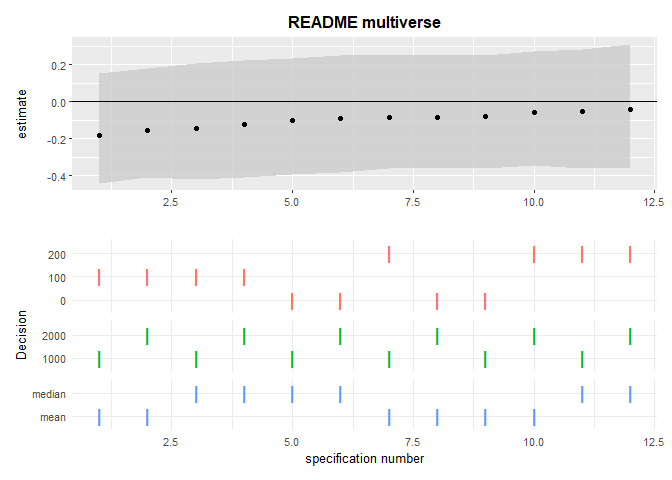
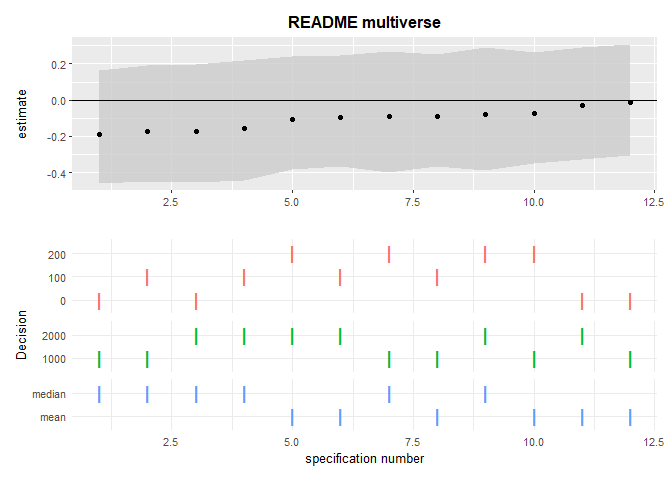
bug fixes in multiverse

diff --git a/README.md b/README.md
@@ -16,26 +16,27 @@ the main outcome measure, for instance the Stroop score or dot-probe
 attention bias index (average RT in incongruent trials minus average RT
 in congruent trials).
 
-As it’s name suggests, the methods are built around split half
-reliability estimation. To increase the robustness of these estimates,
-the package implements a permutation approach that takes a large number
-of random (without replacement) split halves of the data. For each
-permutation the correlation between halves is calculated, with the
-Spearman-Brown correction applied (). This process generates a
+The methods in *splithalf* are built around split half reliability
+estimation. To increase the robustness of these estimates, the package
+implements a permutation approach that takes a large number of random
+(without replacement) split halves of the data. For each permutation the
+correlation between halves is calculated, with the Spearman-Brown
+correction applied (Spearman 1904). This process generates a
 distribution of reliability estimates from which we can extract summary
 statistics (e.g. average and 95% HDI).
 
 ### Why should I estimate the reliabilty of my task measurement?
 
-A full rationale for estimating and reporting the reliability of task
-measurements is outlined in Parsons, Kruijt, and Fox (2019). In short,
 while many cognitive tasks yield robust effects (e.g. everybody shows a
-Stroop effect) they may not yield reliable individual differences. As
-these measures are used in questions of individual differences
-researchers need to have some psychometric information for the outcome
-measures.
-
-## Installation
+Stroop effect) they may not yield reliable individual differences
+(Hedge, Powell, and Sumner 2018). As these measures are used in
+questions of individual differences researchers need to have some
+psychometric information for the outcome measures. Recently, it was
+proposed that psychological science should set a standard expectation
+for the reporting of reliability information for cognitive and
+behavioural measures (2019). *splithalf* was developed to support this
+proposition by providing a tool to easily extract internal consistency
+reliability estimates from behavioural measures. \#\# Installation
 
 The latest release version (`0.7.1` unofficial version name: Kitten
 Mittens) can be installed from CRAN:
@@ -259,16 +260,16 @@ sim_data %>%
 # Groups:   participant_number, block_name [120]
    participant_number block_name congruent incongruent    bias
                 <int> <fct>          <dbl>       <dbl>   <dbl>
- 1                  1 A               512.        462.   49.4 
- 2                  1 B               477.        484.   -6.22
- 3                  2 A               502.        493.    8.83
- 4                  2 B               425.        525. -100.  
- 5                  3 A               501.        524.  -22.1 
- 6                  3 B               526.        551.  -25.7 
- 7                  4 A               498.        420.   78.2 
- 8                  4 B               466.        534.  -67.6 
- 9                  5 A               491.        522.  -31.4 
-10                  5 B               409.        542. -133.  
+ 1                  1 A               538.        476.   61.7 
+ 2                  1 B               482.        523.  -41.7 
+ 3                  2 A               535.        525.   10.3 
+ 4                  2 B               515.        524.   -9.33
+ 5                  3 A               497.        515.  -18.0 
+ 6                  3 B               449.        629. -180.  
+ 7                  4 A               489.        504.  -15.1 
+ 8                  4 B               468.        541.  -73.7 
+ 9                  5 A               520.        559.  -38.7 
+10                  5 B               464.        516.  -52.4 
 # ... with 110 more rows
 ```
 
@@ -295,8 +296,8 @@ difference <- splithalf(data = sim_data,
 
 ``` 
   condition  n splithalf 95_low 95_high spearmanbrown SB_low SB_high
-1         A 60     -0.05  -0.22    0.13         -0.09  -0.37    0.24
-2         B 60      0.08  -0.09    0.26          0.14  -0.17    0.42
+1         A 60      0.06  -0.12    0.25          0.10  -0.21    0.39
+2         B 60      0.05  -0.12    0.24          0.09  -0.22    0.39
 ```
 
 Specifying `plot = TRUE` will also allow you to plot the distributions
@@ -335,7 +336,7 @@ formula is not useful in this case.
 > We estimated the internal consitency of bias A and B using a
 > permutation-based splithalf approach (Parsons 2020a) with 5000 random
 > splits. The (Spearman-Brown corrected) splithalf internal consistency
-> of bias A was were *r*<sub>SB</sub> = -0.09, 95%CI \[-0.37,0.24\].
+> of bias A was were *r*<sub>SB</sub> = 0.1, 95%CI \[-0.21,0.39\].
 > 
 > — Parsons, 2020
 
@@ -365,8 +366,8 @@ var.trialnum will soon be depreciated
 
 ``` 
   condition  n splithalf 95_low 95_high spearmanbrown SB_low SB_high
-1         A 60     -0.02  -0.19    0.18         -0.04  -0.32    0.30
-2         B 60      0.06  -0.12    0.24          0.10  -0.21    0.39
+1         A 60     -0.06  -0.23    0.13         -0.11  -0.38    0.23
+2         B 60      0.00  -0.17    0.19          0.01  -0.28    0.32
 ```
 
 ### Difference-of-difference scores
@@ -417,7 +418,7 @@ Warning in splithalf(data = sim_data, outcome = "RT", score =
 
 ``` 
      condition  n splithalf 95_low 95_high spearmanbrown SB_low SB_high
-1 change score 60      0.09  -0.08    0.28          0.16  -0.15    0.44
+1 change score 60      0.15  -0.02    0.33          0.25  -0.05    0.49
 ```
 
 ## Multiverse analysis extension
@@ -518,6 +519,13 @@ Currently, I have the following on my immediate to do list:
       - potentially customisable methods, e.g. where the outcome is
         scored in formats similar to A - B / A + B
 
+## Comparison to other software
+
+*splithalf* is the only package to implement all of these tools, in
+particular reliability multiverse analyses. Some other `R` packages
+offer a bootstrapped approach to split-half reliability *multicon*
+(Sherman 2015), *psych* (Revelle 2019), and *splithalfr* (Pronk 2020)
+
 ## References
 
 <div id="refs" class="references">
@@ -539,6 +547,15 @@ R and C++ Integration*. <https://CRAN.R-project.org/package=Rcpp>.
 
 </div>
 
+<div id="ref-hedge_reliability_2018">
+
+Hedge, Craig, Georgina Powell, and Petroc Sumner. 2018. “The Reliability
+Paradox: Why Robust Cognitive Tasks Do Not Produce Reliable Individual
+Differences.” *Behavior Research Methods* 50 (3): 1166–86.
+<https://doi.org/10.3758/s13428-017-0935-1>.
+
+</div>
+
 <div id="ref-R-splithalf">
 
 Parsons, Sam. 2020a. *Splithalf: Robust Estimates of Split Half
@@ -550,8 +567,7 @@ Reliability.* <https://doi.org/10.6084/m9.figshare.11956746.v4>.
 
 ———. 2020b. “Exploring Reliability Heterogeneity with Multiverse
 Analyses: Data Processing Decisions Unpredictably Influence Measurement
-Reliability.” Preprint. PsyArXiv.
-<https://doi.org/10.31234/osf.io/y6tcz>.
+Reliability.” Preprint, June. <https://doi.org/10.31234/osf.io/y6tcz>.
 
 </div>
 
@@ -569,6 +585,36 @@ Psychological Science.
 
 Pedersen, Thomas Lin. 2019. *Patchwork: The Composer of Plots*.
 <https://CRAN.R-project.org/package=patchwork>.
+
+</div>
+
+<div id="ref-R-splithalfr">
+
+Pronk, Thomas. 2020. *Splithalfr: Extensible Bootstrapped Split-Half
+Reliabilities*. <https://CRAN.R-project.org/package=splithalfr>.
+
+</div>
+
+<div id="ref-R-psych">
+
+Revelle, William. 2019. *Psych: Procedures for Psychological,
+Psychometric, and Personality Research*. Evanston, Illinois:
+Northwestern University. <https://CRAN.R-project.org/package=psych>.
+
+</div>
+
+<div id="ref-R-multicon">
+
+Sherman, Ryne A. 2015. *Multicon: Multivariate Constructs*.
+<https://CRAN.R-project.org/package=multicon>.
+
+</div>
+
+<div id="ref-spearman_proof_1904">
+
+Spearman, C. 1904. “The Proof and Measurement of Association Between Two
+Things.” *The American Journal of Psychology* 15 (1): 72.
+<https://doi.org/10.2307/1412159>.
 
 </div>
 

diff --git a/paper.md b/paper.md
@@ -1,0 +1,52 @@
+---
+# Example from https://joss.readthedocs.io/en/latest/submitting.html
+title: 'splithalf: robust estimates of split half reliability'
+tags:
+- reliability
+- cognitive tasks
+- multiverse
+- split half methods
+- R
+authors:
+  - name: Sam Parsons
+    affiliation: 1 # (Multiple affiliations must be quoted)
+affiliations:
+ - name: Department of Experimental Psychology, University of Oxford
+   index: 1
+
+citation_author: Parsons
+date: 30 December 2020
+year: 2020
+bibliography: inst/book.bib
+---
+
+# splithalf: robust estimates of split half reliability
+
+The `R` package *splithalf* provides tools to estimate the internal consistency reliability of cognitive measures. In particular, the tools were developed for application to tasks that use difference scores as the main outcome measure, for instance the Stroop score or dot-probe attention bias index (average RT in incongruent trials minus average RT in congruent trials). 
+
+The methods in *splithalf* are built around split half reliability estimation. To increase the robustness of these estimates, the package implements a permutation approach that takes a large number of random (without replacement) split halves of the data. For each permutation the correlation between halves is calculated, with the Spearman-Brown correction applied [@spearman_proof_1904]. This process generates a distribution of reliability estimates from which we can extract summary statistics (e.g. average and 95% HDI).
+
+### Statement of need
+
+while many cognitive tasks yield robust effects (e.g. everybody shows a Stroop effect) they may not yield reliable individual differences [@hedge_reliability_2018]. As these measures are used in questions of individual differences researchers need to have some psychometric information for the outcome measures. Recently, it was proposed that psychological science should set a standard expectation for the reporting of reliability information for cognitive and behavioural measures [-@parsons_kruijt_fox_2019]. *splithalf* was developed to support this proposition by providing a tool to easily extract internal consistency reliability estimates from behavioural measures. 
+
+## Usage
+
+The _splithalf_ function estimates reliability for a variety of scoring types, including average scores, difference scores, and difference-of-difference scores. The function is also extendable to other scoring calculations, e.g. signal detection. Reliability can be estimated for response time and accuracy rate outcomes. A plotting option is also provided for users to examine the distribution of reliability estimates. 
+
+Users can perform a reliability multiverse analysis to examine the stability of reliability estimates, given a rage of data processing decisions [@parsons_exploring_2020]. By passing a list of data processing decisions (e.g. maximum and minimum RT cutoffs) and a _splithalf_ object into the _splithalf.multiverse_ function. The output can then be plotted with _plot_multiverse_. 
+
+
+*splithalf* requires the *tidyr* [@R-tidyr] and *dplyr* [@R-dplyr] packages for data handling within the functions. The *robustbase* package is used to extract median scores when applicable. The computationally heavy tasks (extracting many random half samples of the data) are written in `c++` via the `R` package *Rcpp* [@R-Rcpp]. Figures use the *ggplot* package [@R-ggplot2], raincloud plots use code adapted from Allen et al. [@allen_raincloud_2019], and the *patchwork* package [@R-patchwork] is used for plotting the multiverse analyses. 
+
+
+## Comparison to other software
+
+*splithalf* is the only package to implement all of these tools, in particular reliability multiverse analyses. Some other `R` packages offer a bootstrapped approach to split-half reliability *multicon* [@R-multicon], *psych* [@R-psych], and *splithalfr* [@R-splithalfr].
+
+
+## Acknowledgements
+
+This work was supported by a grant from the Economic and Social Research Council (ESRC; Grant reference ES/R004285/1). I would also like to thank Anne-Wil Kruijt, James Bartlett, Andrew Jones, and Jean-Paul Snijder for their input on the package. I also thank all that have asked questions, posed suggestions, and shared bug reports - the *splithalf* package is more stable and powerful because of them. 
+
+## References
